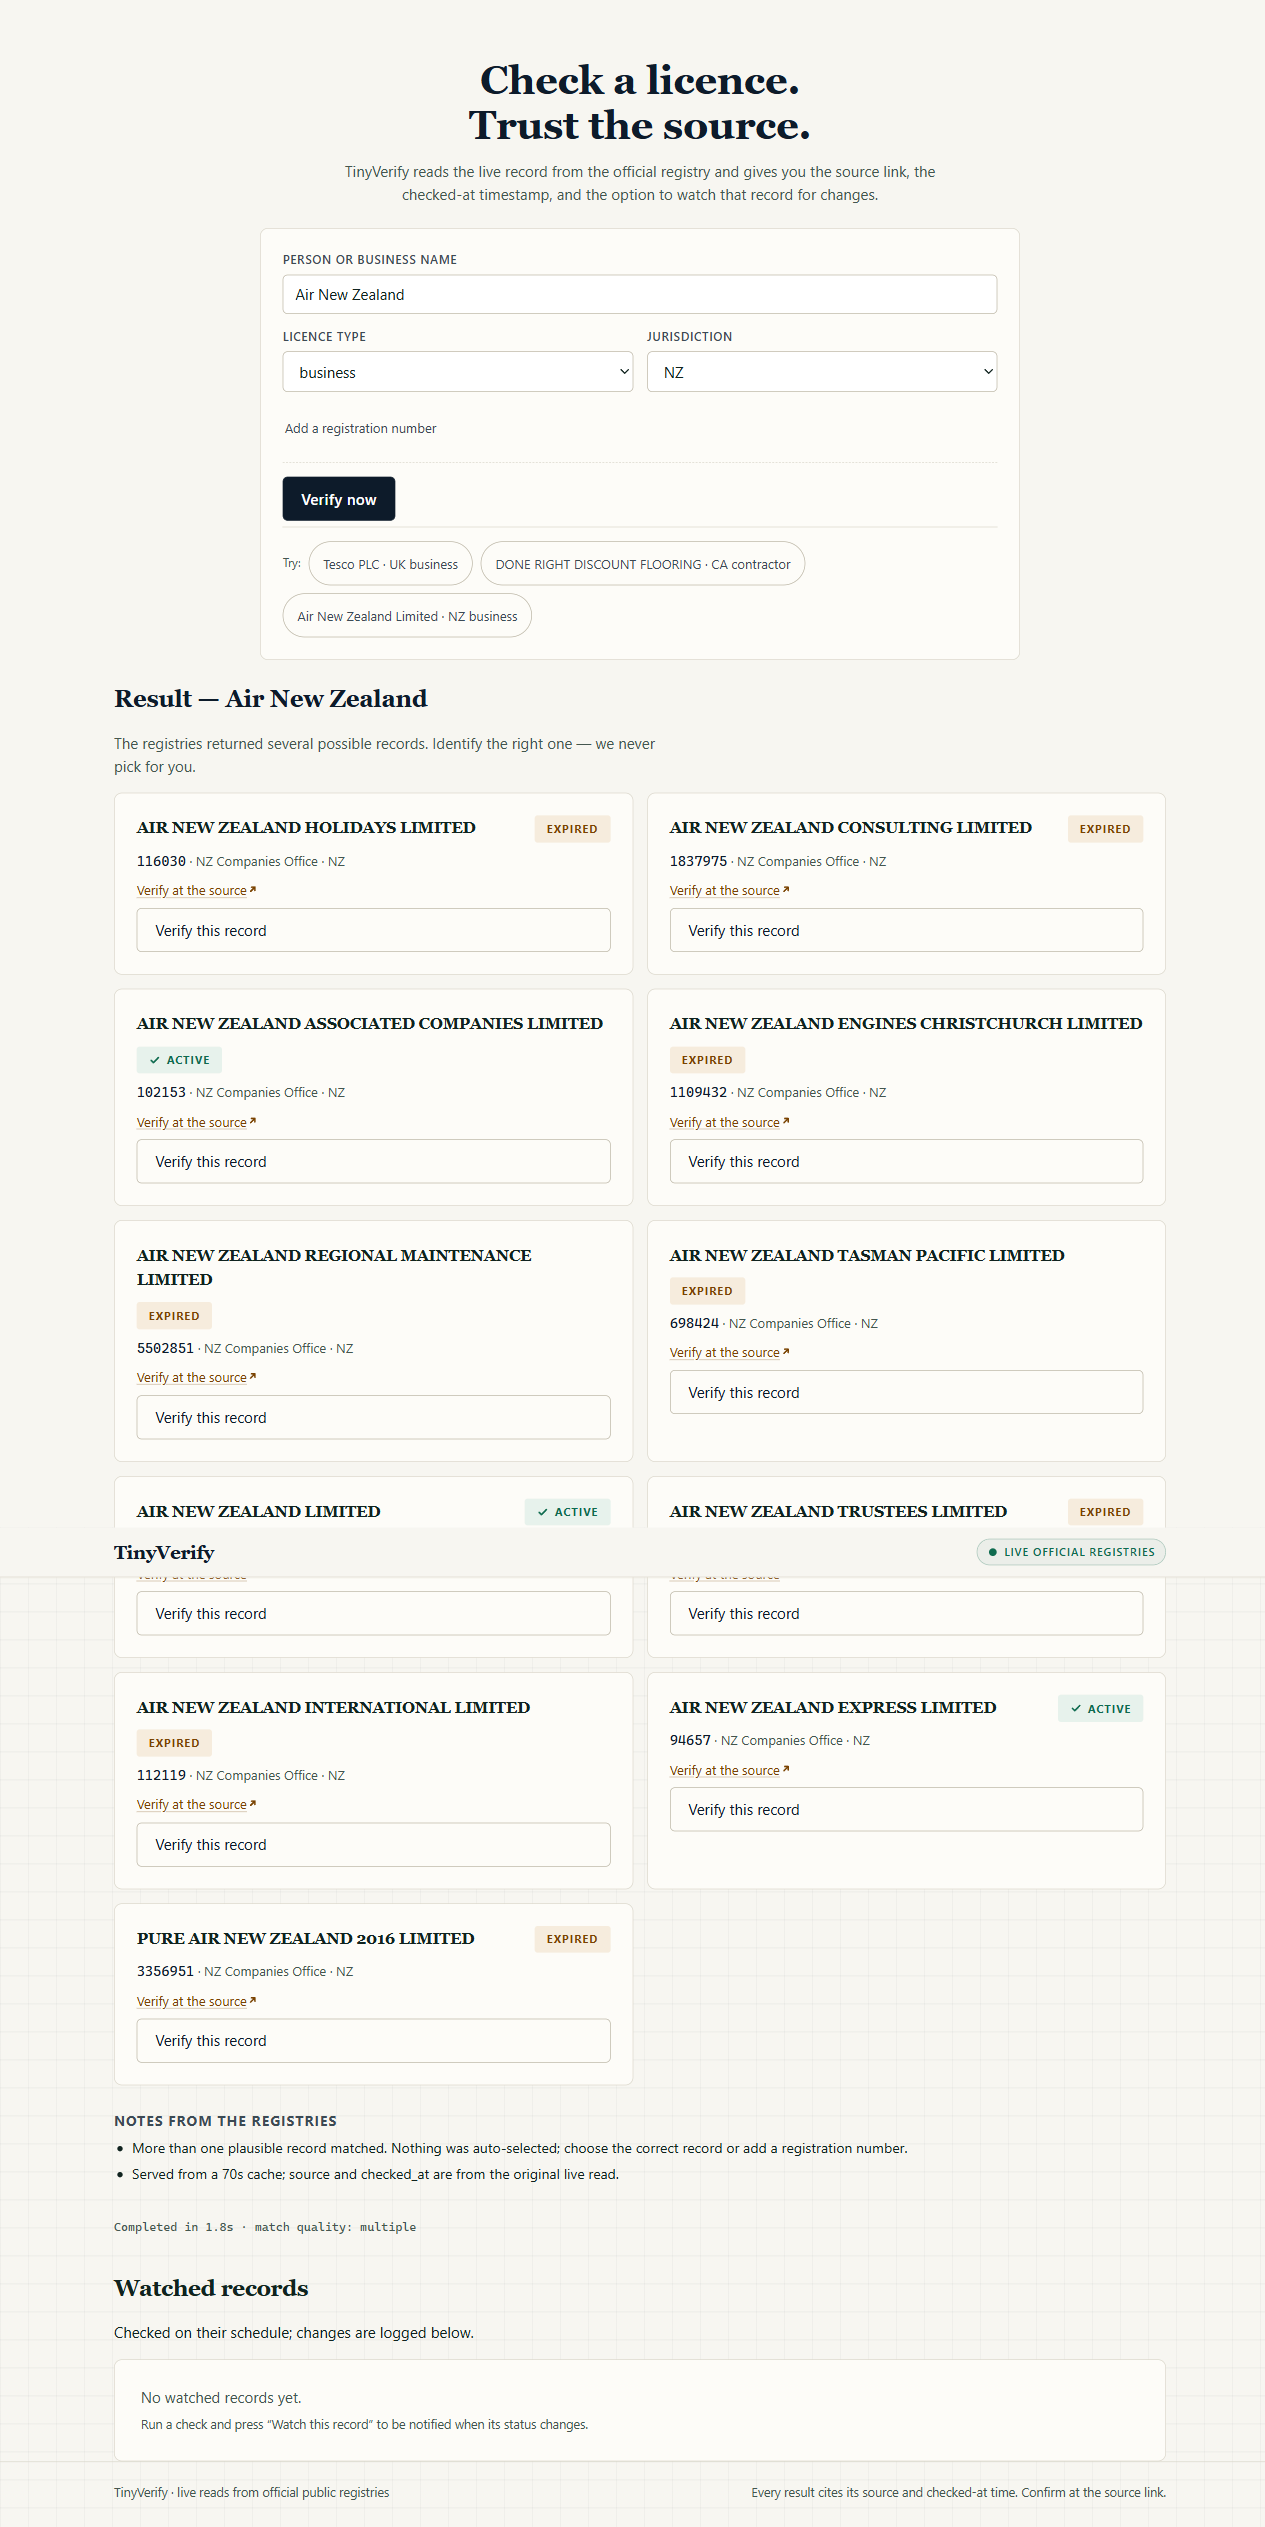
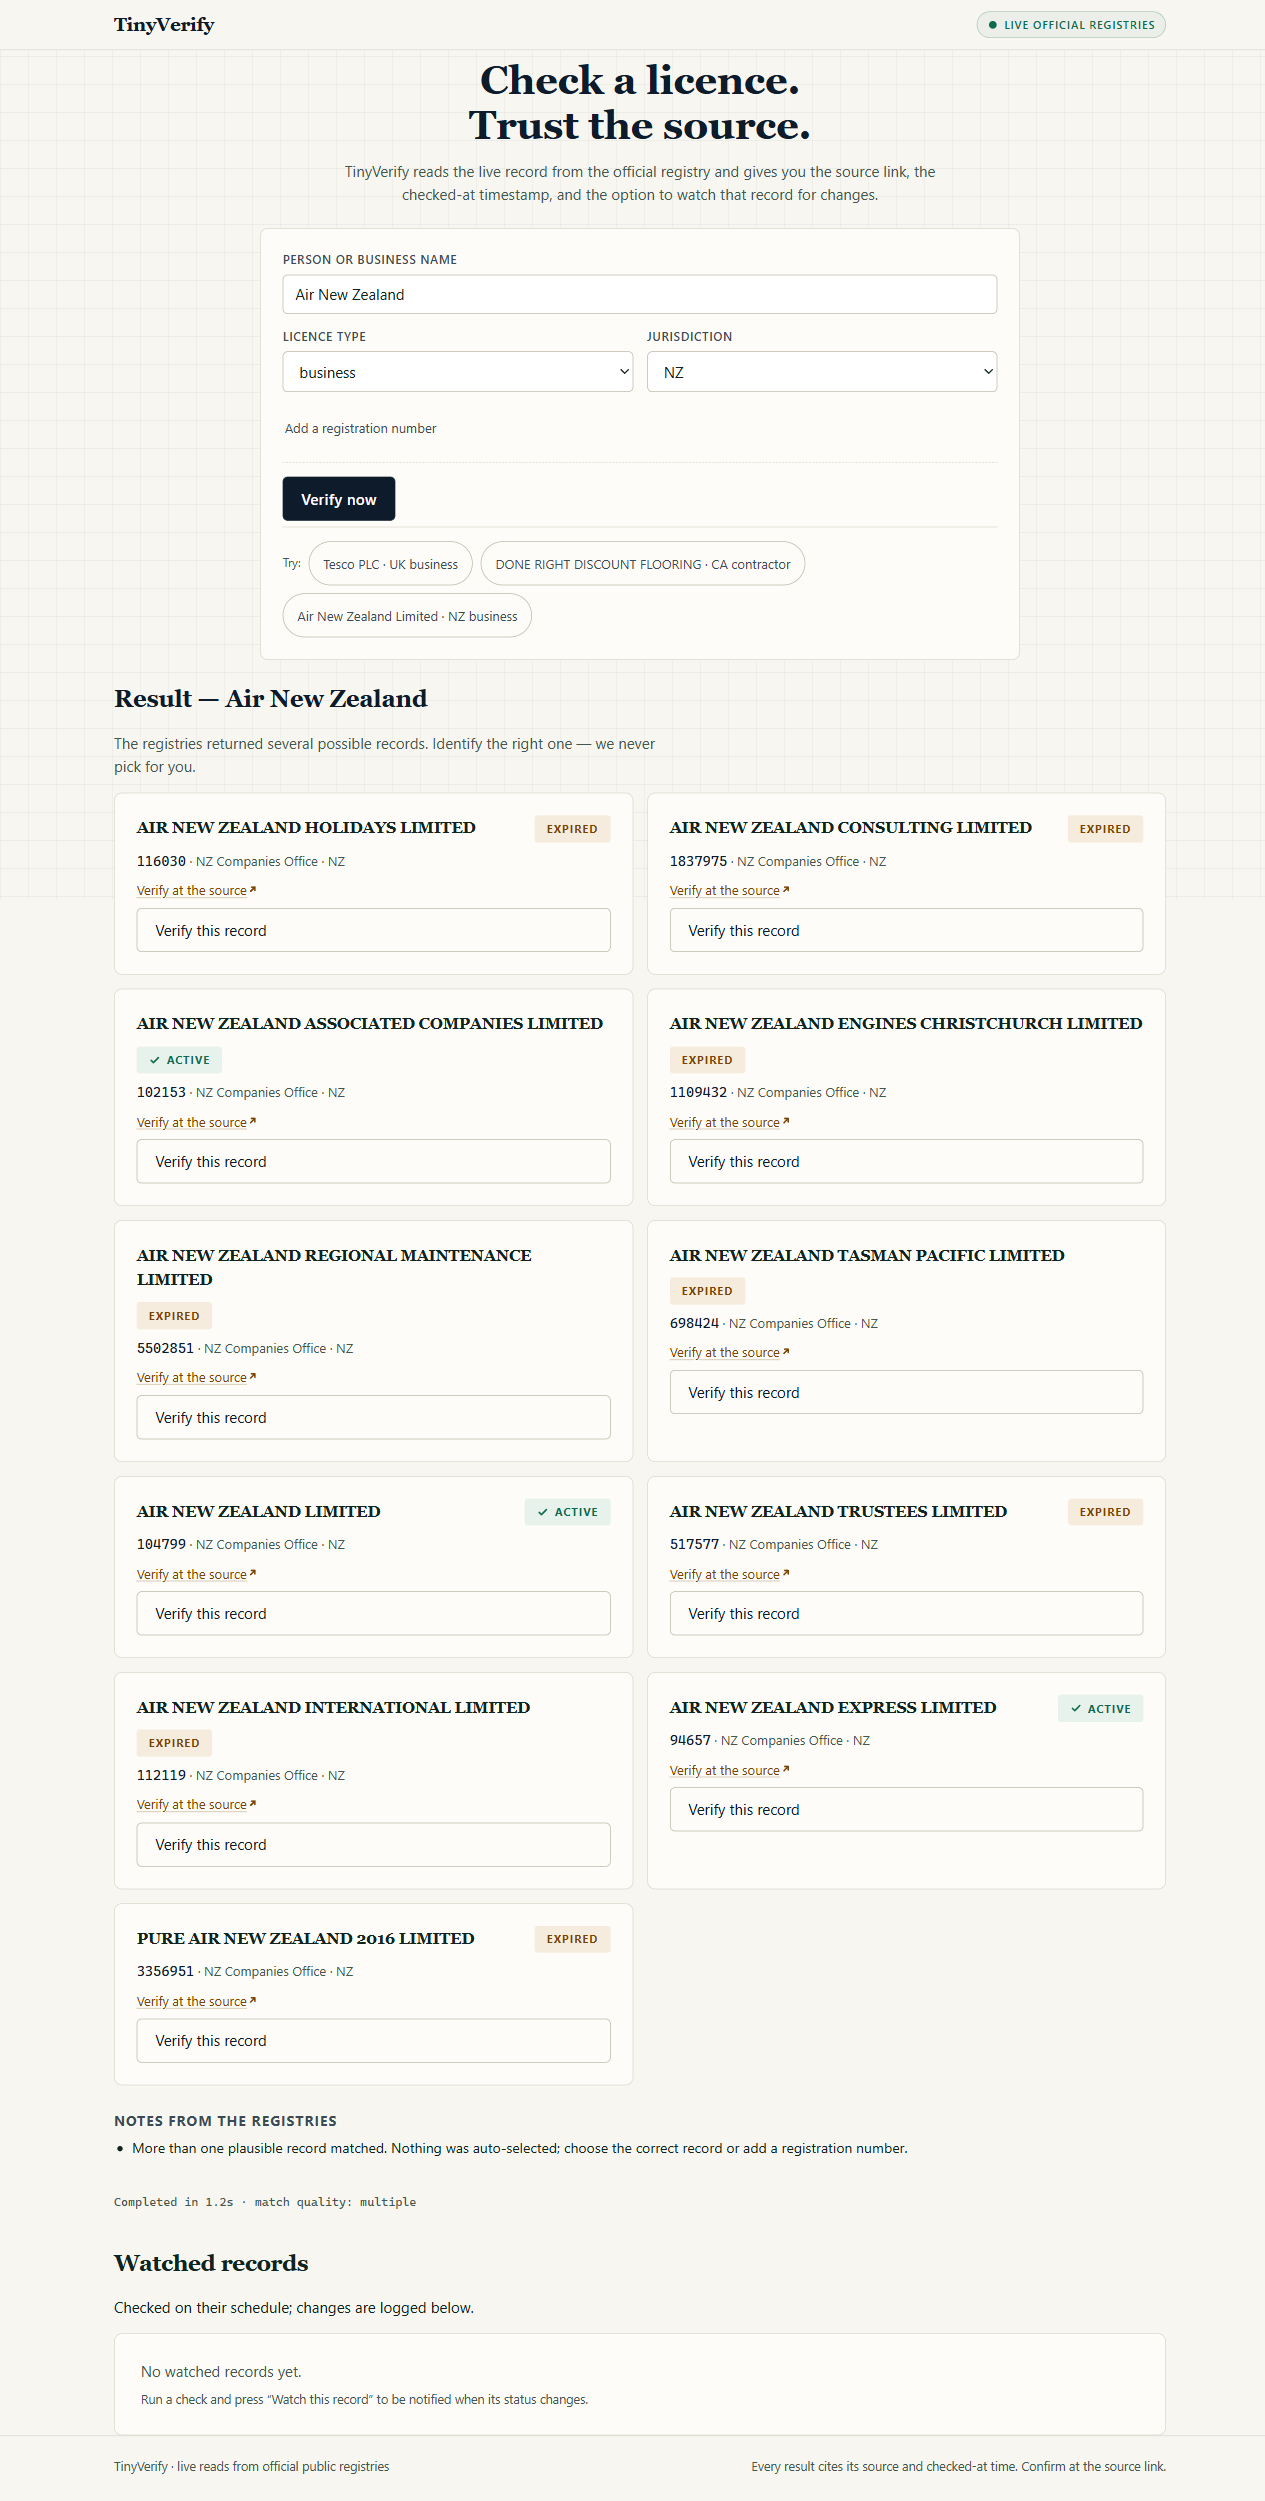
Docs: refresh screenshots and map each requirement to its evidence

diff --git a/SUBMISSION.md b/SUBMISSION.md
@@ -52,7 +52,7 @@ Air New Zealand Limited · business · NZ
   https://app.companiesoffice.govt.nz/co/104799
 
 Air New Zealand · business · NZ
-→ multiple · 10 candidates at the time of check, statuses preserved (active and expired), primary: null
+→ multiple · 11 candidates in the captured run, statuses preserved (active and expired), primary: null
 
 DONE RIGHT DISCOUNT FLOORING · contractor · US-CA
 → exact · revoked ("revoked and not able to contract") · 738180 · expiry 2017-05-28
@@ -67,6 +67,29 @@ Planise Jean Louis · health · US
 ZZZ Not A Real Company 999 · business · UK
 → no_match · 0 candidates · the searches that were run are listed
 ```
+
+---
+
+## Requirement map
+
+| Submission requirement | Where it is met |
+|---|---|
+| Name, licence or record type, jurisdiction | The form and `POST /api/verify` accept `subject`, `licence_type`, `jurisdiction`, plus an optional `number`. |
+| At least two official registries | Four: UK Companies House, NZ Companies Office, California CSLB, US NPPES — 3 record types, 3 countries. Listed by `GET /api/coverage`. |
+| Structured record | Every record carries `status`, `licence_number`, `expiry_date`, `disciplinary_actions`, `source_url`, `checked_at`, `status_detail`, `match_quality`, `registry_id`. See the JSON example above. |
+| TinyFish Monitor flags status changes | Each watch creates a scheduled TinyFish Monitor on the official URL with a webhook; `Check now` re-reads and diffs a five-field snapshot. |
+| Agent, Fetch and Monitor explanation | "How TinyFish is used" below, including what each endpoint contributes and why it is not padding. |
+
+| Approval criterion | Evidence |
+|---|---|
+| Results come live from the official source, with a link | Every record is built from a page or API read from the official source; `assertRecord()` rejects a record without an `http(s)` `source_url` and a parseable `checked_at`. Cached responses keep the original values and say `cached: true`. |
+| Accurate: status, numbers and dates match the registry | `Tesco PLC` → `00445790`, active. `Air New Zealand Limited` → `104799`, active. `DONE RIGHT DISCOUNT FLOORING` / `738180` → `revoked`, expiry `2017-05-28`, matching the CSLB page's "This license is revoked…". `Planise Jean Louis` / `1295346773` → active. |
+| No match or several matches handled without guessing | `ZZZ Not A Real Company 999` → `no_match` with the searches listed. `Air New Zealand` → `multiple` with 11 candidates and `primary: null`. Below-threshold names go to `near_misses`; unwired combinations return `unsupported`. |
+| Works for different people, businesses and places | Four registries across the UK, NZ and the US; business, contractor and health records; name-only, name + number and number-only lookups; name variants are tried and disclosed. |
+| Output is structured and reusable | Stable JSON contract, per-record `registry_id` and `source_url`, `checked_at`, and a documented HTTP API. Any tool can call `POST /api/verify` and store the result. |
+
+TinyFish scoring: **4 endpoints — Search, Fetch, Agent, Monitor — 200 points.** Each one is load-bearing;
+the table under "How TinyFish is used" states what breaks without it.
 
 ---
 
